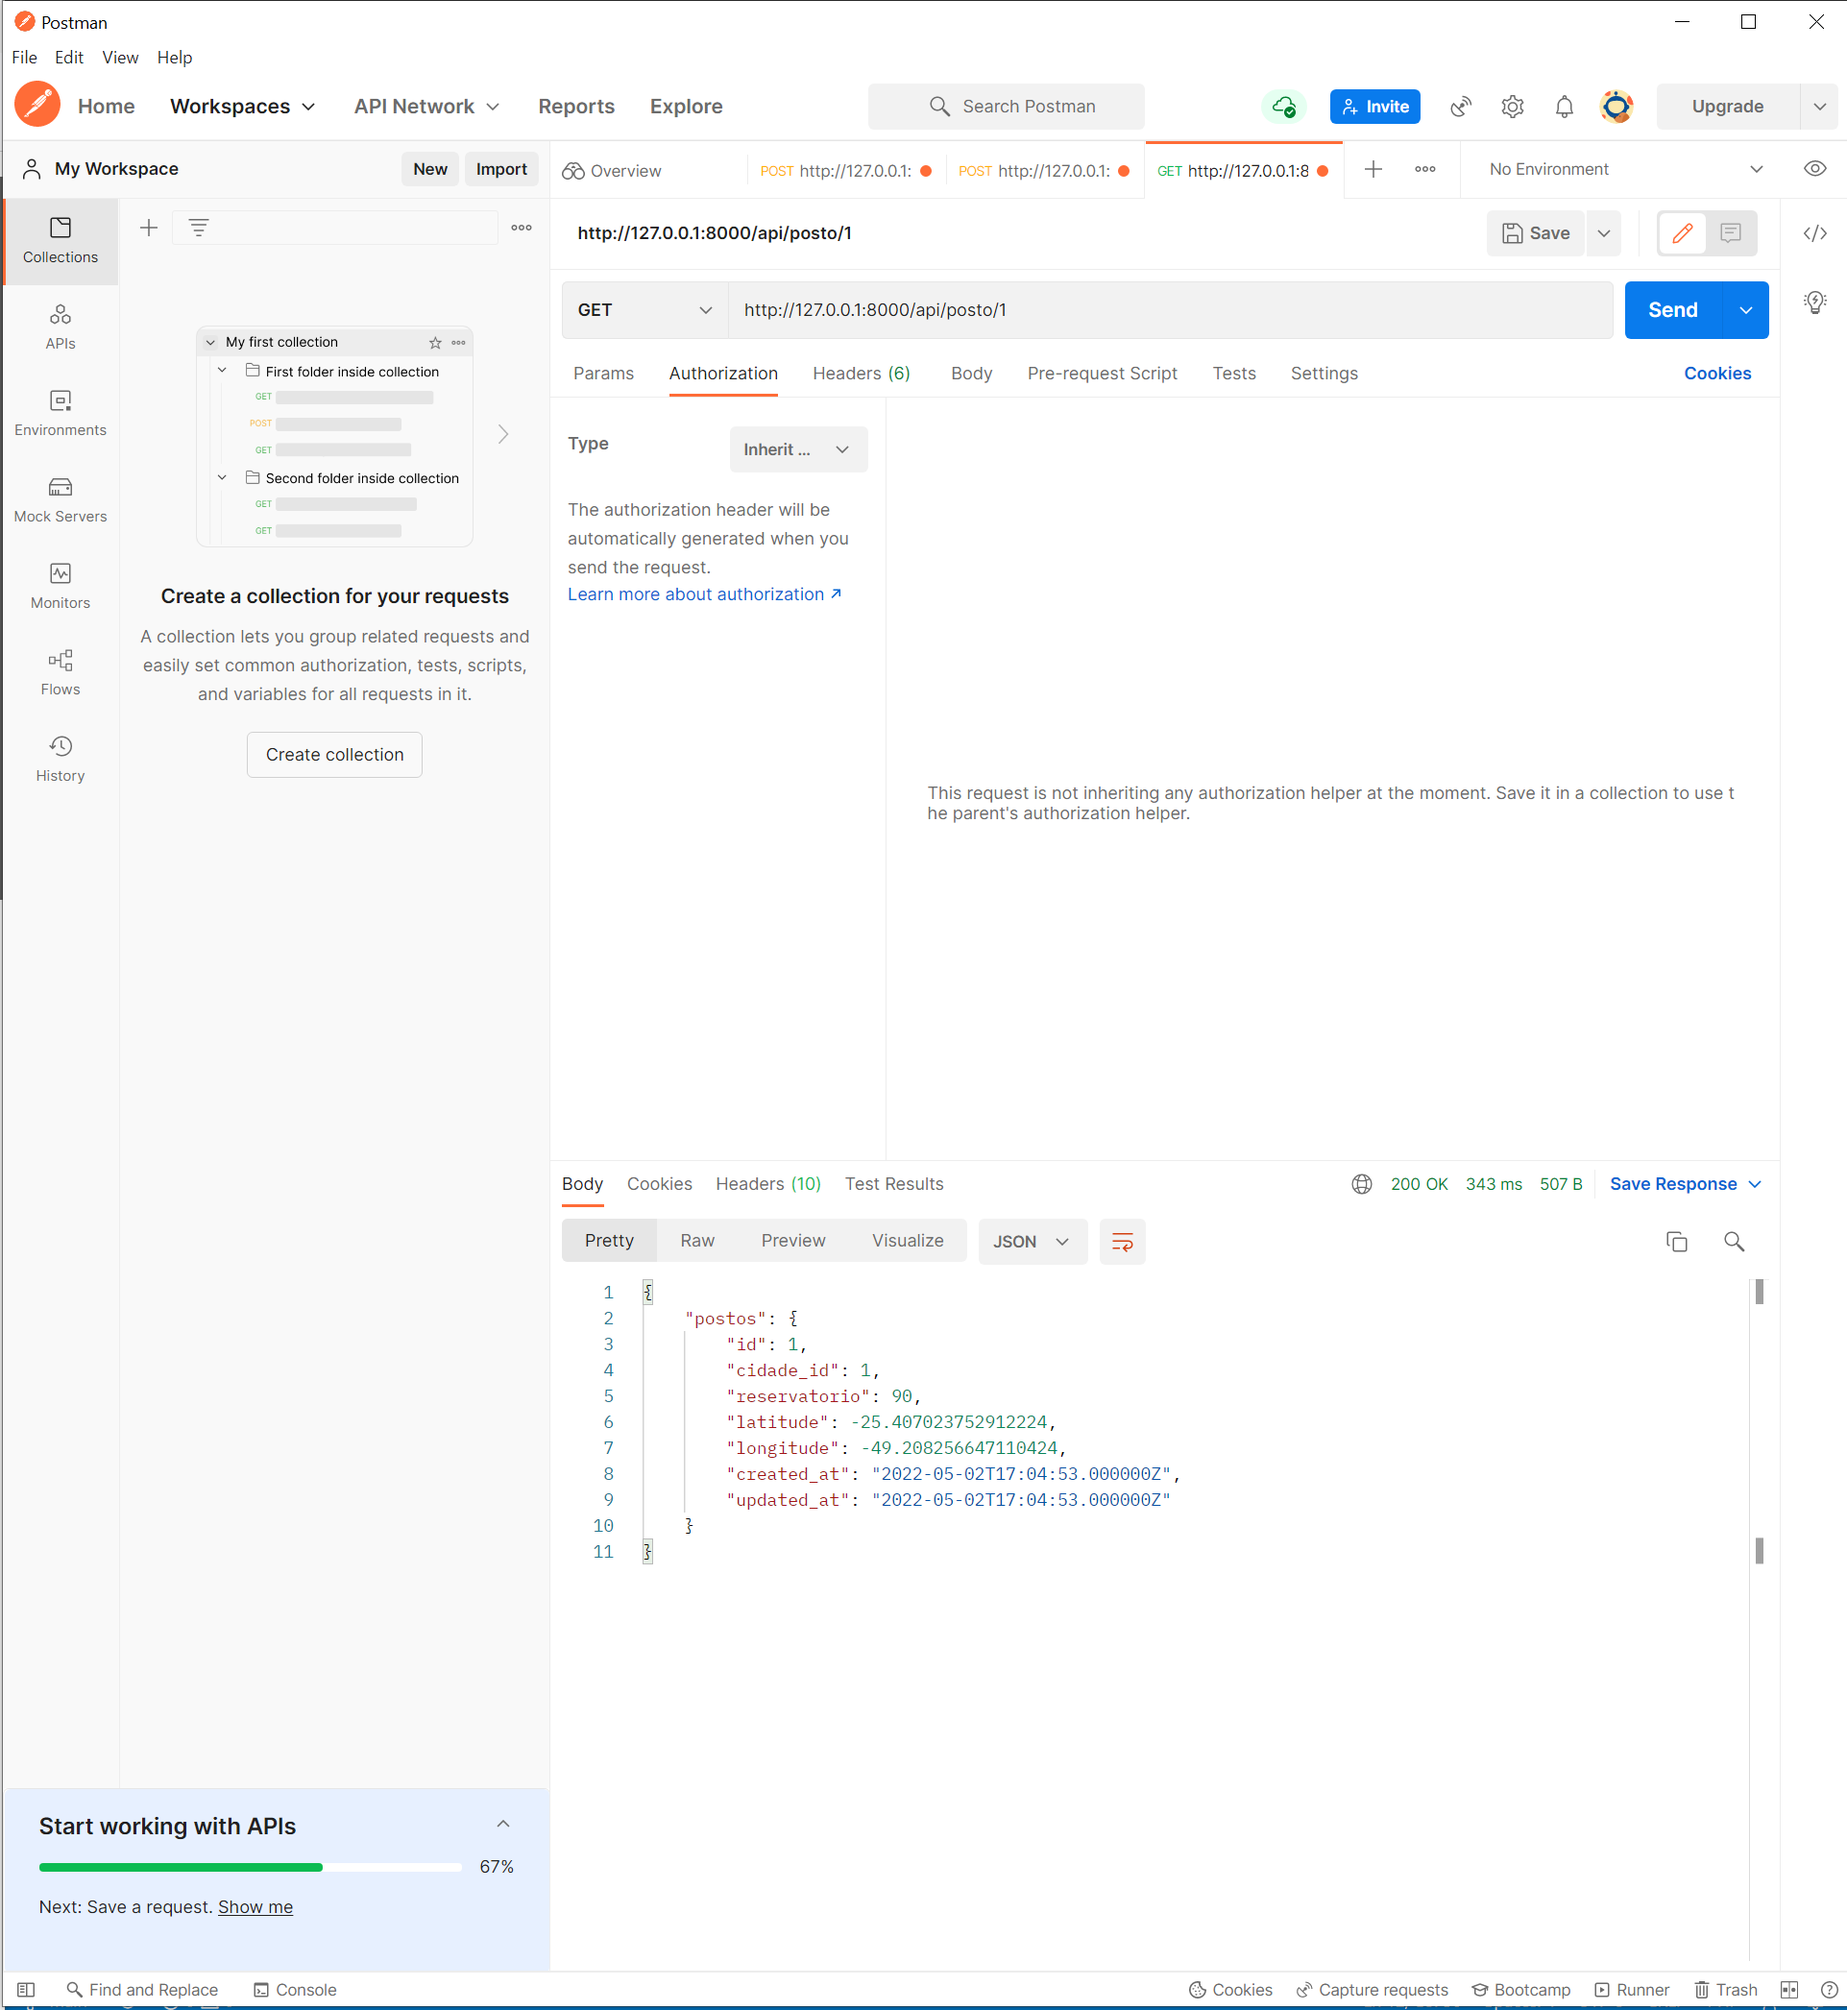
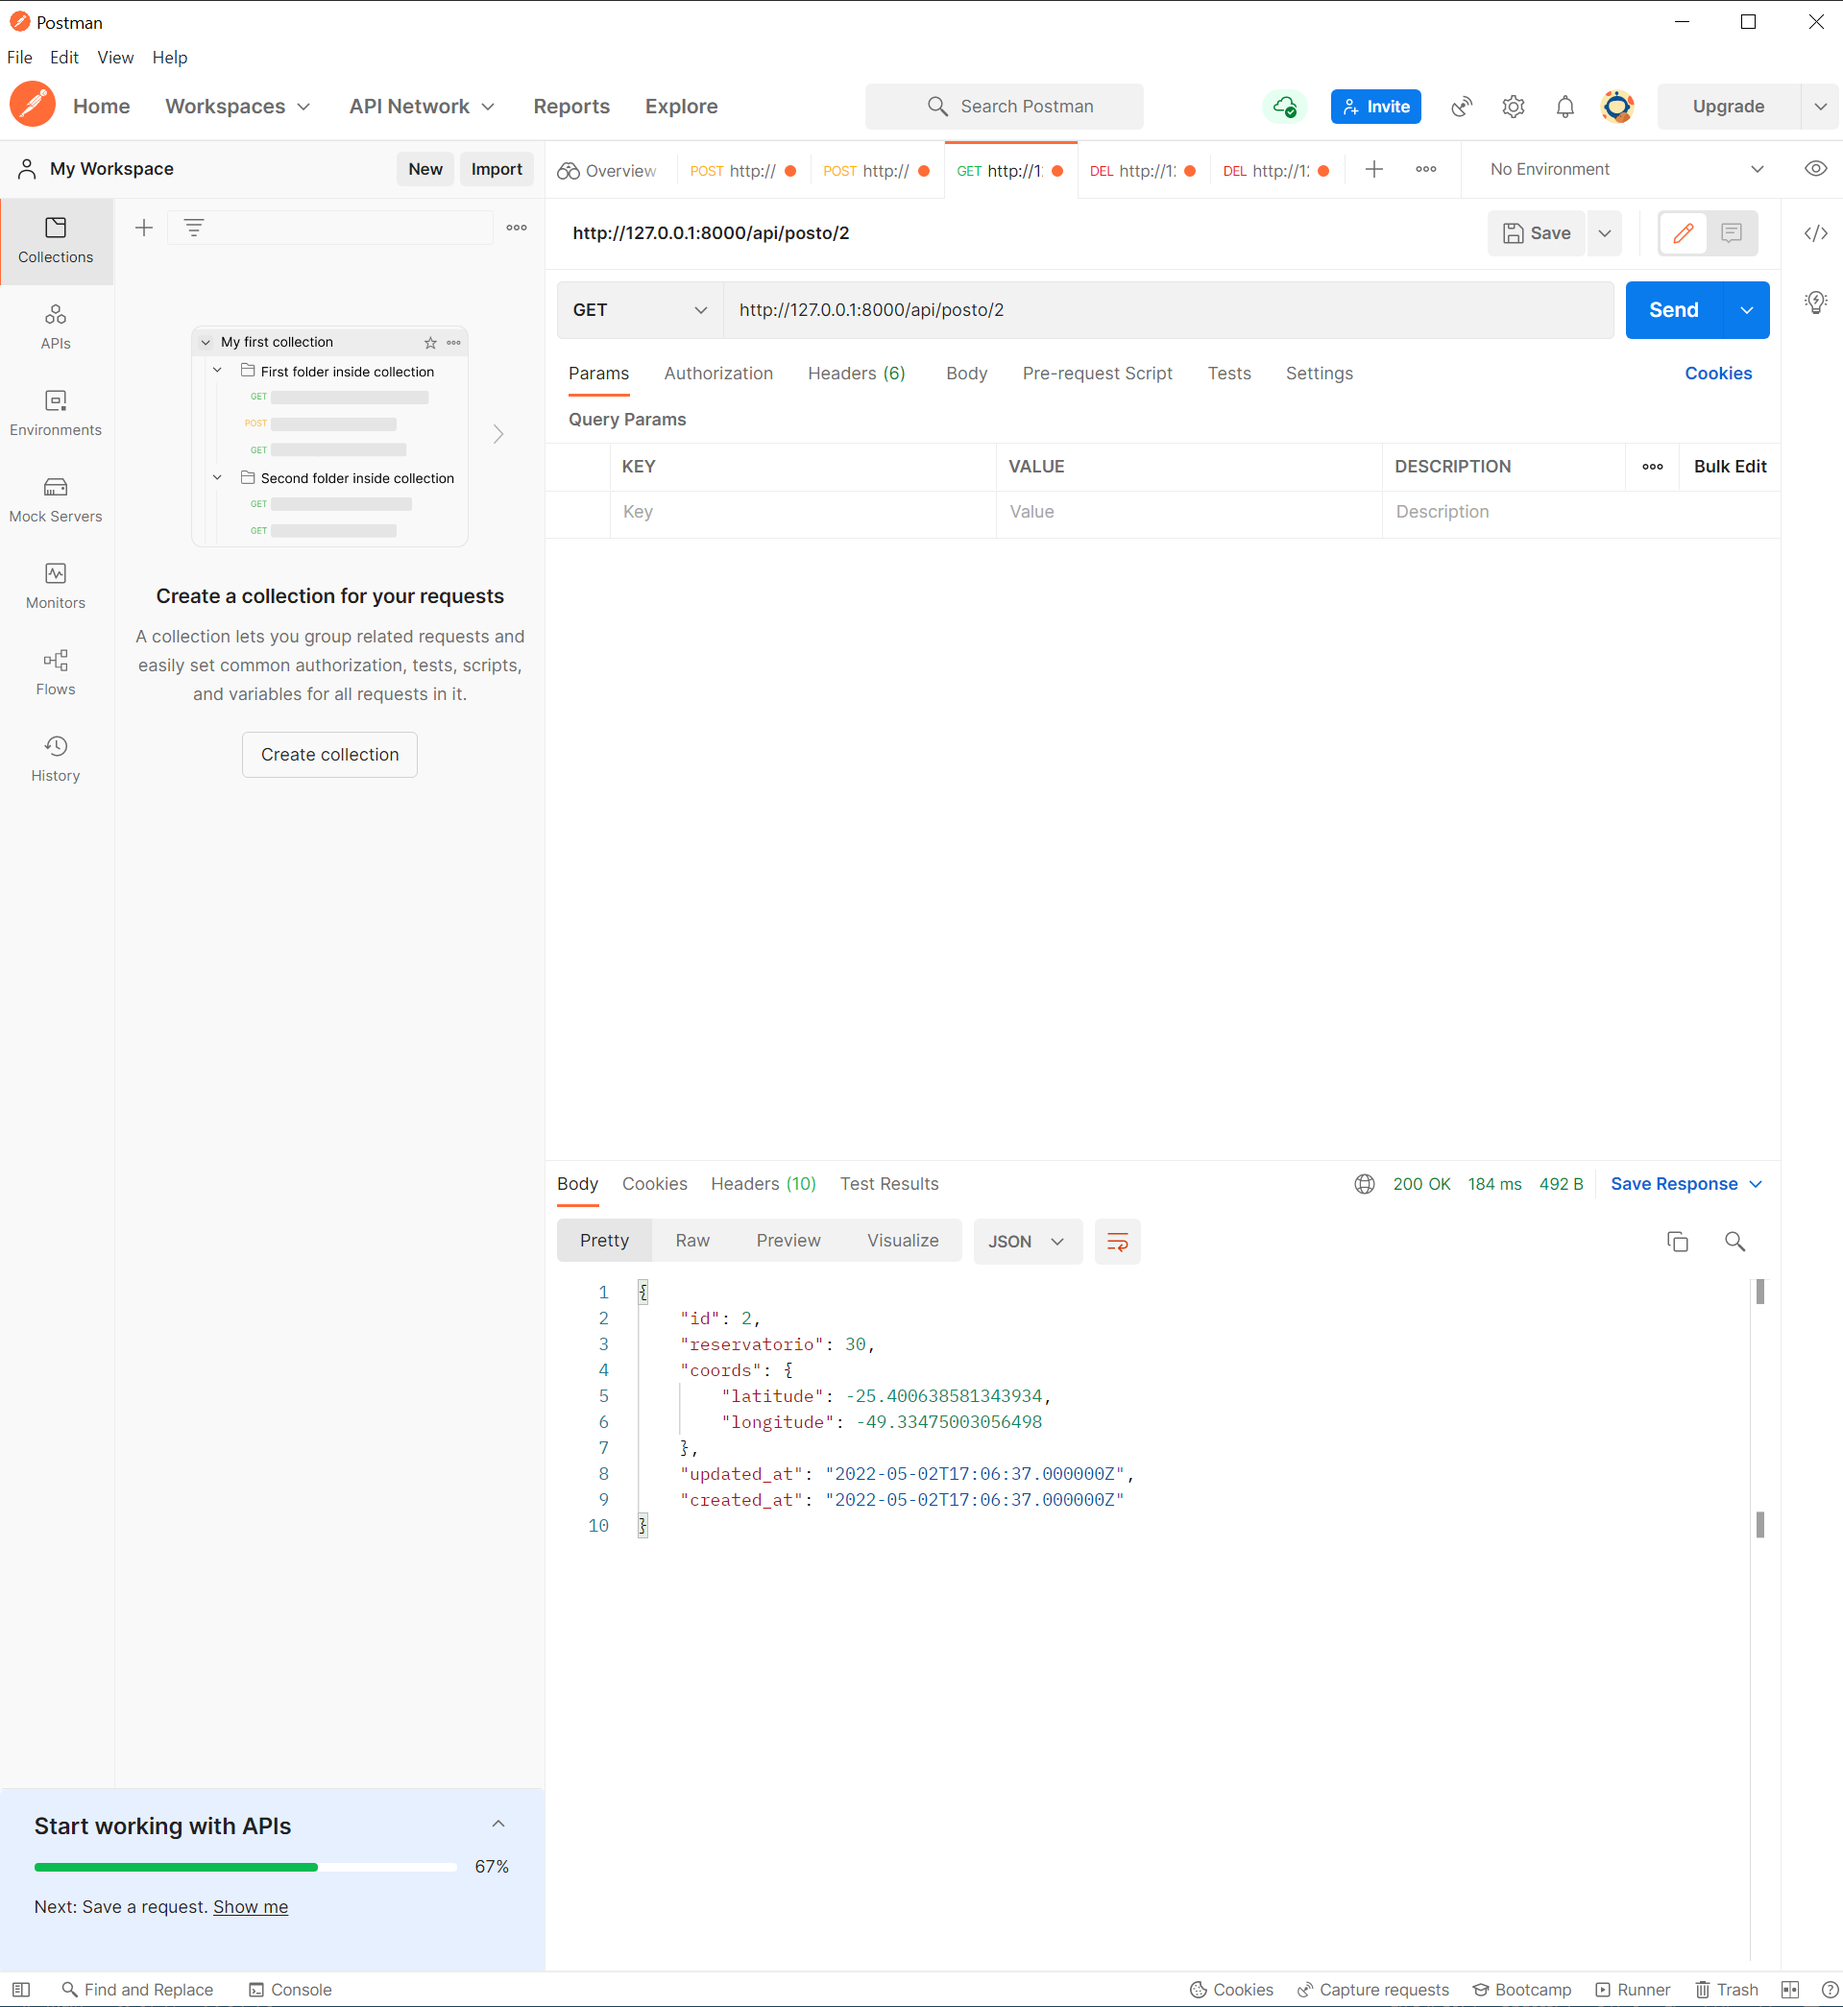
proposta finalizada

diff --git a/warker/app/Http/Controllers/CidadeController.php b/warker/app/Http/Controllers/CidadeController.php
@@ -4,9 +4,63 @@ namespace App\Http\Controllers;
 
 use Illuminate\Http\Request;
 use App\Models\Cidade;
+use App\Models\Posto;
+use Illuminate\Support\Facades\DB;
 
 class CidadeController extends Controller
 {
+
+    public function show($id){
+        $cidadeId = Cidade::find($id);
+        $postoId = Posto::find($id);
+
+       // $postos = Posto::where('cidade_id', $postoId->id)->exclude('cidade_id')->get();
+
+        $postos = DB::table('postos')
+        ->select('id','reservatorio','latitude','longitude','updated_at','created_at')
+        ->where('cidade_id', '=', $postoId->id)
+        ->get();
+
+        if($postos){
+            foreach ($postos as $key => $post) {
+                $data2[$key] = [
+                    'id'            =>      $post->id,
+                    'reservatorio'  =>      $post->reservatorio,
+                    'coords'        =>[
+                        'latitude'      =>      $post->latitude,
+                        'longitude'     =>      $post->longitude
+                    ],
+                    'updated_at' => $post->updated_at,
+                    'created_at' => $post->created_at
+                ];
+            }      
+        }
+
+        if($cidadeId){
+            $data= $cidadeId;
+            
+            $data = [
+                'id'            =>      $cidadeId->id,
+                'cidade'  =>            $cidadeId->nome_da_cidade,
+                'coords'        =>[
+                    'latitude'      =>      $cidadeId->latitude,
+                    'longitude'     =>      $cidadeId->longitude
+                ],
+                'postos'        =>[
+                    $data2
+                ],                
+                'updated_at' => $cidadeId->updated_at,
+                'created_at' => $cidadeId->created_at
+            ];
+            
+            return $data;
+
+        }else{
+            return response()->json(['mensagem'=>'Posto não encontrado!'], 404);
+        }
+
+    }
+    
     public function store(Request $request){
 
         $request->validate([
@@ -22,4 +76,42 @@ class CidadeController extends Controller
         $cidade->save();
         return response()->json(['mensagem'=>"Cidade adicionada com sucesso!"],200);
     }
+
+    public function update(Request $request, $id){
+        $request->validate([
+            'nome_da_cidade'=>'required|max:255',
+            'latitude'=>'required',
+            'longitude'=>'required'
+        ]);
+
+        $cidade = Cidade::find($id);
+
+        if($cidade){
+            $cidade->nome_da_cidade       = $request->nome_da_cidade;
+            $cidade->latitude       = $request->latitude;
+            $cidade->longitude       = $request->longitude;
+            $cidade->update();
+            return response()->json(['mensagem'=>"Cidade atualizada com sucesso!"],200);
+        }else{
+            return response()->json(['mensagem'=>'Cidade não encontrada!'], 404);
+        }
+      
+    }
+
+    public function destroy($id){
+    
+        $cidade = Cidade::find($id);
+
+        if($cidade){
+            $cidade->delete();
+            return response()->json(['message'=>'Cidade deletada com sucesso!'], 200);
+        }else{
+            return response()->json(['message'=>'Cidade não encontrada!'], 404);
+
+        }
+    }
+
+
+
+
 }

diff --git a/warker/app/Http/Controllers/PostoController.php b/warker/app/Http/Controllers/PostoController.php
@@ -12,8 +12,19 @@ class PostoController extends Controller
         $postoId = Posto::find($id);
 
         if($postoId){
-            return response()->json(['postos'=>$postoId], 200);
 
+            $data = [
+                'id'            =>      $postoId->id,
+                'reservatorio'  =>      $postoId->reservatorio,
+                'coords'        =>[
+                    'latitude'      =>      $postoId->latitude,
+                    'longitude'     =>      $postoId->longitude
+                ],
+                'updated_at' => $postoId->updated_at,
+                'created_at' => $postoId->created_at
+            ];
+
+            return $data;
 
         }else{
             return response()->json(['mensagem'=>'Posto não encontrado!'], 404);

diff --git a/warker/routes/api.php b/warker/routes/api.php
@@ -6,6 +6,10 @@ use Illuminate\Http\Request;
 use Illuminate\Support\Facades\Route;
 
 Route::post('cidade/add', [CidadeController::class,'store']);
+Route::get('cidade/{id}', [CidadeController::class,'show']);
+Route::put('cidade/{id}/update', [CidadeController::class,'update']);
+Route::delete('cidade/{id}/delete', [CidadeController::class,'destroy']);
+
 
 Route::post('posto/add', [PostoController::class,'store']);
 Route::get('posto/{id}', [PostoController::class,'show']);

diff --git a/README.md b/README.md
@@ -204,6 +204,12 @@ Adicione a rota api no arquivo api.php para deletar postos via DELETE:
 Route::delete('posto/{id}/delete', [PostoController::class,'destroy']);
 Podemos testar a função através do link: http://127.0.0.1:8000/api/posto/1/delete
 
+No controller Cidade, preciso adicionar uma função que pegue o id da cidade por GET.
+Nele, faço a busca da cidade, e pego o id da cidade para executar uma nova busca de postos que possuem esse id, e assim monto o JSON.
+Podemos acessar esses dados através da url http://127.0.0.1:8000/api/cidade/2
+
+Adicione a rota api no arquivo api.php para alterar cidades via PUT:
+Route::put('cidade/{id}/update', [CidadeController::class,'update']);
 
 
 
